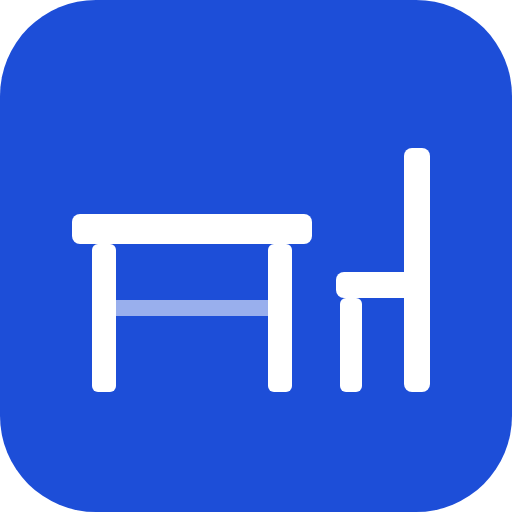
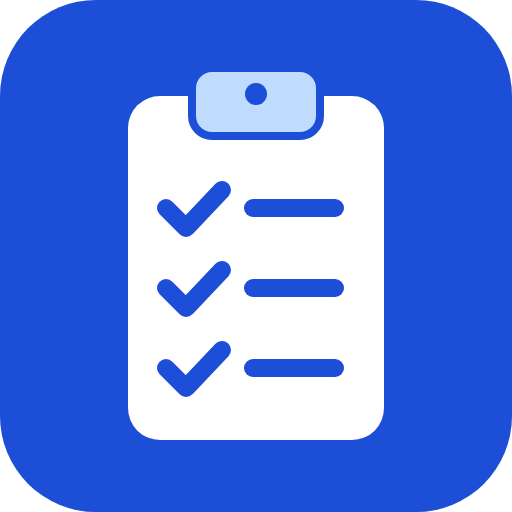
feat(T16): アプリの名前とアイコンを総務にする
- 名前を「電波祭 総務」にする（ページの title、ヘッダー〔スマホは「総務」。data-testid="app-name"〕、
  ログイン）。マニフェストは name「電波祭 総務」、short_name「総務」、description は総務部門の仕事を
  まとめるアプリ。Excel の作成者は「電波祭 総務アプリ」
- アイコンを文字のない総務の絵（クリップボードとチェックの印と線を3段）に描き直し、
  scripts/gen-icons.mjs で icon.png・apple-icon.png を作り直す
- QR のカードの文字と /stock?room= の URL は変えない

Claude-Session: https://claude.ai/code/session_01WNbyY2riVdfm15kp8tp6es

diff --git a/apps/web/app/manifest.test.ts b/apps/web/app/manifest.test.ts
@@ -1,4 +1,4 @@
-// PWA のマニフェスト（D-38。T14）：display は browser、start_url・scope・icons の src に basePath が付く
+// PWA のマニフェスト（D-38。T14）：display は browser、start_url・scope・icons の src に basePath が付く。名前は総務アプリ（D-51。T16）
 import { afterEach, describe, expect, it, vi } from 'vitest';
 
 async function load(basePath: string | undefined) {
@@ -20,6 +20,16 @@ describe('manifest', () => {
     expect(m.start_url).toBe('/');
     expect(m.scope).toBe('/');
     expect(m.icons?.map((i) => i.src)).toEqual(['/icon.png', '/apple-icon.png']);
+  });
+
+  it('T16 名前は総務アプリ：name「電波祭 総務」、short_name「総務」、description は総務部門の仕事。色と表示は変えない', async () => {
+    const m = await load('');
+    expect(m.name).toBe('電波祭 総務');
+    expect(m.short_name).toBe('総務');
+    expect(m.description).toBe('電波祭の総務部門の仕事をまとめるアプリ（机椅子の在庫・申請・振り分けなど）');
+    expect(m.lang).toBe('ja');
+    expect(m.theme_color).toBe('#1d4ed8');
+    expect(m.background_color).toBe('#ffffff');
   });
 
   it('basePath /GAapp：start_url・scope・icons の src に付く', async () => {

diff --git a/apps/web/app/manifest.ts b/apps/web/app/manifest.ts
@@ -7,13 +7,14 @@ import { BASE_PATH } from '@/lib/env';
 // 静的書き出しで manifest.webmanifest のファイルになる。<link rel="manifest"> の href には Next が basePath を付けるが、
 // JSON の中の start_url・scope・icons の src は書いた文字列のままなので、BASE_PATH を自分で付ける。
 // アイコンは Next のファイルの規約（app/icon.png・app/apple-icon.png。scripts/gen-icons.mjs で作る）。
+// 名前は総務アプリ（D-51。T16）：name「電波祭 総務」、short_name「総務」（ホーム画面のアイコンの下に出る短い名前）。
 export const dynamic = 'force-static';
 
 export default function manifest(): MetadataRoute.Manifest {
   return {
-    name: '電波祭 総務 机椅子管理',
-    short_name: '机椅子管理',
-    description: '電波祭の机・椅子などの在庫入力・申請・振り分け',
+    name: '電波祭 総務',
+    short_name: '総務',
+    description: '電波祭の総務部門の仕事をまとめるアプリ（机椅子の在庫・申請・振り分けなど）',
     lang: 'ja',
     start_url: `${BASE_PATH}/`,
     scope: `${BASE_PATH}/`,

diff --git a/apps/web/components/layout/app-shell.tsx b/apps/web/components/layout/app-shell.tsx
@@ -122,8 +122,9 @@ function Frame({ membership, onSignOut, children }: { membership: Membership; on
         >
           {menuOpen ? <X /> : <Menu />}
         </Button>
-        <span className="truncate font-bold">
-          <span className="hidden sm:inline">電波祭 総務 </span>机椅子管理
+        {/* アプリの名前（D-51）：sm 以上は「電波祭 総務」、スマホは「総務」 */}
+        <span className="truncate font-bold" data-testid="app-name">
+          <span className="hidden sm:inline">電波祭 </span>総務
         </span>
         {year ? (
           <span

diff --git a/packages/exporter/src/layout.test.ts b/packages/exporter/src/layout.test.ts
@@ -155,6 +155,8 @@ describe('団体名の確認と出力', () => {
     const wb = new ExcelJS.Workbook();
     await wb.xlsx.load(bytes as unknown as ArrayBuffer);
     expect(wb.worksheets.map((w) => w.name)).toHaveLength(8);
+    // 作成者は総務アプリの名前（T16。D-51）
+    expect(wb.creator).toBe('電波祭 総務アプリ');
     const c = wb.getWorksheet('机(木)')!.getCell('D4').value as { formula: string; result: number };
     expect(c.formula).toBe('G5-SUM(D2:D3)');
     expect(c.result).toBe(5);

diff --git a/apps/web/app/(auth)/login/page.tsx b/apps/web/app/(auth)/login/page.tsx
@@ -68,7 +68,7 @@ function Login() {
   return (
     <main className="mx-auto flex min-h-dvh max-w-sm flex-col justify-center gap-6 p-6">
       <div className="space-y-1 text-center">
-        <p className="text-sm text-muted-foreground">電波祭 総務 机椅子管理</p>
+        <p className="text-sm text-muted-foreground">電波祭 総務</p>
         <h1 className="text-2xl font-bold">ログイン</h1>
       </div>
       {session.status === 'configError' ? (

diff --git a/packages/exporter/src/xlsx.ts b/packages/exporter/src/xlsx.ts
@@ -5,7 +5,7 @@ import type { SheetModel } from './report';
 
 export async function writeWorkbook(sheets: readonly SheetModel[], generatedAt: Date = new Date()): Promise<Uint8Array> {
   const wb = new ExcelJS.Workbook();
-  wb.creator = '電波祭 総務 机椅子管理アプリ';
+  wb.creator = '電波祭 総務アプリ';
   wb.created = generatedAt;
   wb.modified = generatedAt;
   wb.calcProperties.fullCalcOnLoad = true;

diff --git a/apps/web/app/layout.tsx b/apps/web/app/layout.tsx
@@ -9,7 +9,7 @@ import { authStorageKey } from '@/lib/supabase/client';
 import './globals.css';
 
 export const metadata: Metadata = {
-  title: '電波祭 総務 机椅子管理',
+  title: '電波祭 総務',
 };
 
 export const viewport: Viewport = {
